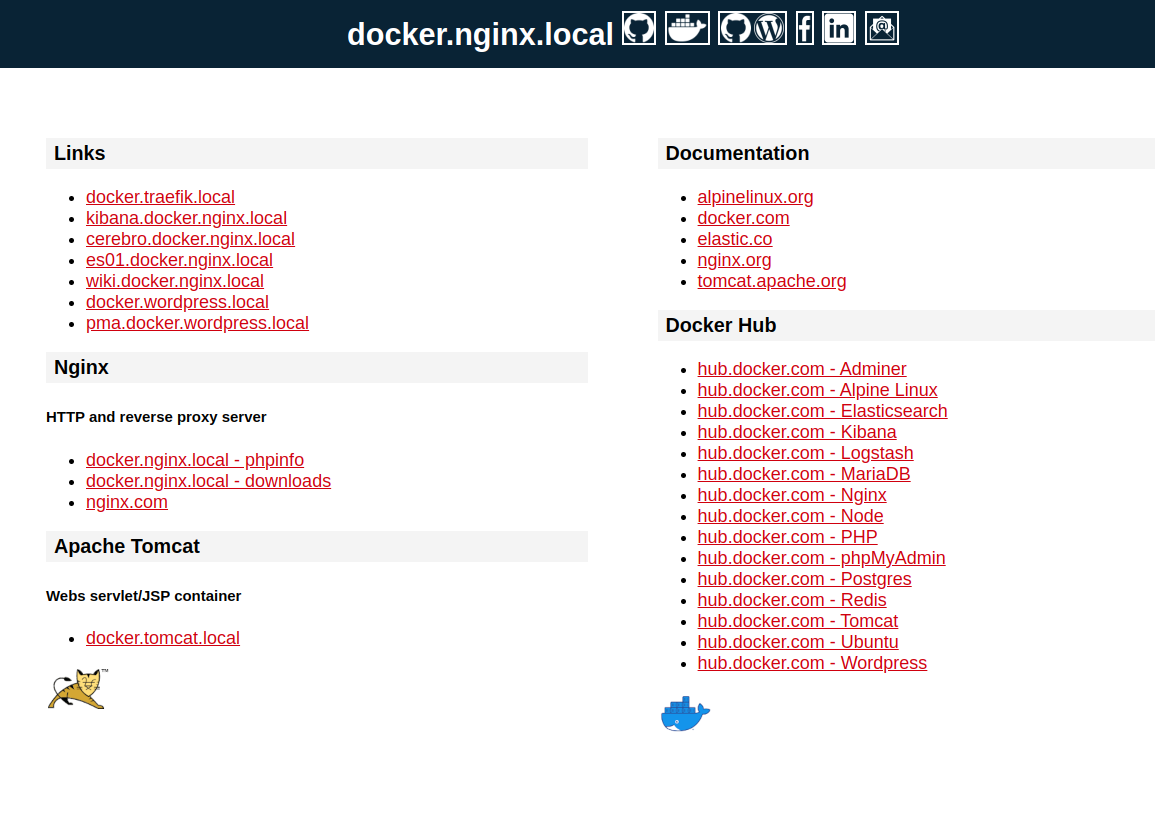
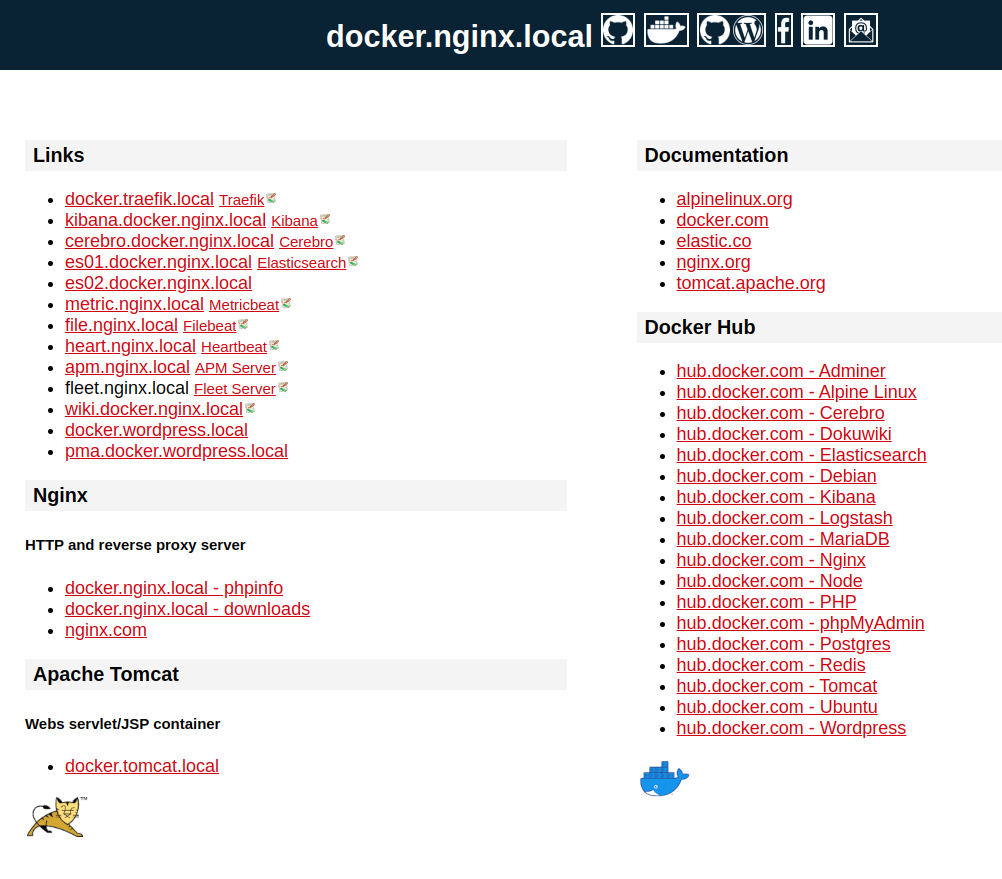
.

diff --git a/application/html/index.php b/application/html/index.php
@@ -160,7 +160,7 @@ if ($printEnv) {
         <h2>Links</h2>
         <p>
           <ul>
-            <li><?php print("<a href=\"https://".$parent.".traefik.local".$port."\" target=\"_blank\">".$parent.".traefik.local")?></a></li>
+	    <li><?php print("<a href=\"https://".$parent.".traefik.local".$port."\" target=\"_blank\">".$parent.".traefik.local")?></a><?php if($isWiki) { ?> <small><a href="https://wiki.docker.nginx.local/doku.php?id=traefik" target="_blank">Traefik</a></small><img src="dokuwiki.png" width="10" height="10"></li><?php } ?></li>
 	    <?php if($isKibana || $isWiki) { ?><li><?php if($isKibana) { print("<a href=\"https://kibana.".$parent.".nginx.local:5601\" target=\"_blank\">kibana.".$parent.".nginx.local</a> "); } if($isWiki) { ?><small><a href="https://wiki.docker.nginx.local/doku.php?id=kibana" target="_blank">Kibana</a></small><img src="dokuwiki.png" width="10" height="10"></li><?php } } ?>
             <?php if($isCerebro|| $isWiki) { ?><li><?php if($isCerebro) { print("<a href=\"https://cerebro.".$parent.".nginx.local".$port."\" target=\"_blank\">cerebro.".$parent.".nginx.local</a> "); } if($isWiki) { ?><small><a href="https://wiki.docker.nginx.local/doku.php?id=cerebro" target="_blank">Cerebro</a></small><img src="dokuwiki.png" width="10" height="10"></li><?php } } ?>
             <?php if($isEs01 || $isWiki) { ?><li><?php if($isEs01) { print("<a href=\"https://es01.".$parent.".nginx.local:9200/?pretty\" target=\"_blank\">es01.".$parent.".nginx.local</a> "); } if($isWiki) { ?><small><a href="https://wiki.docker.nginx.local/doku.php?id=elasticsearch" target="_blank">Elasticsearch</a></small><img src="dokuwiki.png" width="10" height="10"></li><?php } } ?>

diff --git a/readme.md b/readme.md
@@ -90,7 +90,7 @@ Creating lhsdock-eps      ... done
 | docker.elastic.co/enterprise-search/enterprise-search | 8.4.3      | 1.45GB           |
 | logstash                                              | 8.4.3      | 735MB            |
 | docker.elastic.co/beats/elastic-agent                 | 8.4.3      | 2.16GB           | 
-| docker.elastic.co/beats/elastic-agent-complete        | 8.4.3      | 3.67GB           | * 
+| docker.elastic.co/beats/elastic-agent-complete        | 8.4.3      | 3.67GB           | * for Elastic Synthetics
 | docker.elastic.co/apm/apm-server                      | 8.4.3      | 230MB            |
 | docker.elastic.co/beats/metricbeat                    | 8.4.3      | 496MB            |
 | docker.elastic.co/beats/heartbeat                     | 8.4.3      | 2.09GB           |
